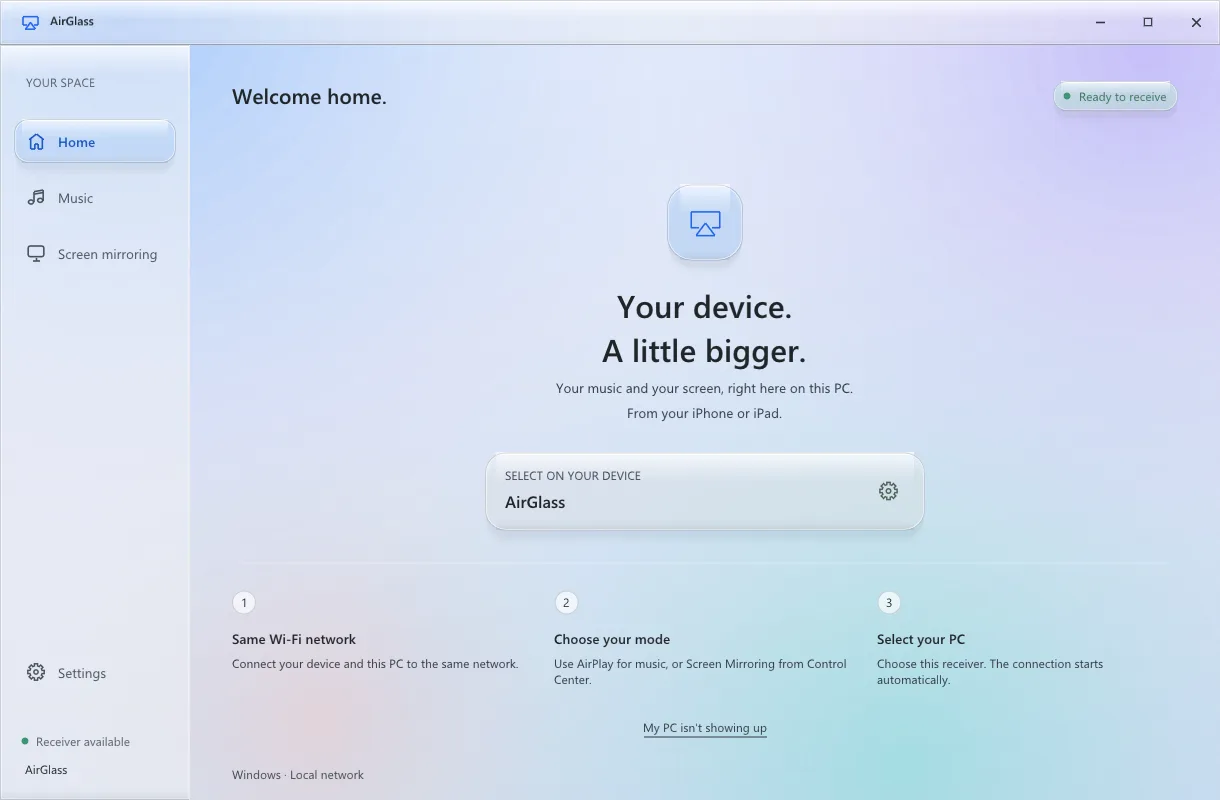
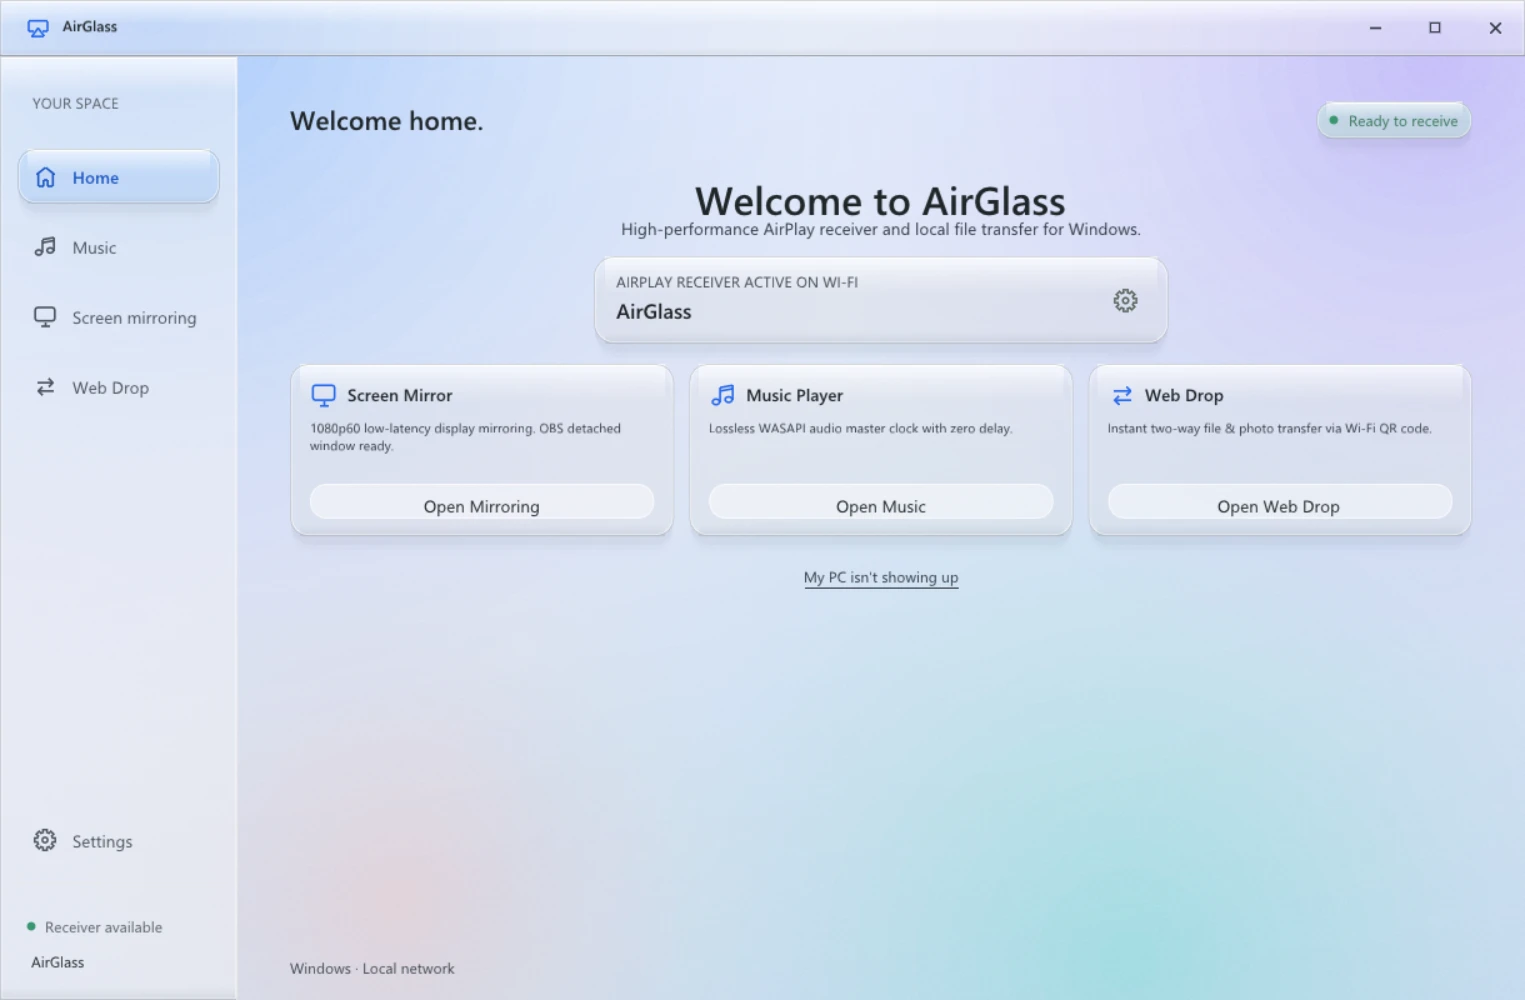
docs: update screenshots and feature showcase to v0.3.0 UI across README and site

diff --git a/site/index.html b/site/index.html
@@ -56,9 +56,9 @@
       <figure class="shot">
         <picture>
           <source media="(max-width: 760px)" srcset="/assets/dash-mobile.webp" width="1030" height="755">
-          <img src="/assets/dashboard.webp" width="1220" height="800" alt="The AirGlass window on Windows, showing the receiver card and the three setup steps." fetchpriority="high" decoding="async">
+          <img src="/assets/dashboard.webp" width="1220" height="800" alt="The AirGlass Home workspace showing receiver status and tool cards." fetchpriority="high" decoding="async">
         </picture>
-        <figcaption class="shot-cap">The receiver card, at first run. Pick the name on the iPhone and it starts.</figcaption>
+        <figcaption class="shot-cap">The AirGlass Home dashboard: receiver status on your Wi-Fi network and quick access to tools.</figcaption>
       </figure>
     </div>
   </section>
@@ -104,6 +104,10 @@
         <h2>Pick the preset before you mirror</h2>
         <p>AirGlass probes your GPU, CPU and Wi-Fi band, then shows what this machine can hold. You choose. Nothing is decided silently, and the choice stays locked for that session. Sizes are quoted as the short side of the portrait screen, so 1080p is roughly 886 by 1920 in practice.</p>
       </div>
+      <figure class="shot shot-margin">
+        <img src="/assets/preflight.webp" width="1213" height="793" alt="AirGlass pre-flight quality chooser modal showing hardware probe and stream profiles." loading="lazy" decoding="async">
+        <figcaption class="shot-cap">The pre-flight quality chooser: hardware probe results and profile verdicts before streaming starts.</figcaption>
+      </figure>
       <ul class="preset-grid">
         <li class="tile">
           <div class="tile-top">
@@ -132,7 +136,8 @@
   <section class="mirror" id="mirror">
     <div class="wrap mirror-grid">
       <figure class="shot shot-small">
-        <img src="/assets/mirroring.webp" width="1213" height="793" alt="The AirGlass interface while an iPhone home screen is mirrored, showing the connected device and session controls." loading="lazy" decoding="async">
+        <img src="/assets/mirroring.webp" width="1213" height="793" alt="The AirGlass Screen Mirroring standby view with OBS detached window controls." loading="lazy" decoding="async">
+        <figcaption class="shot-cap">Screen Mirroring Studio: one-click standby and OBS window detachment.</figcaption>
       </figure>
       <div class="mirror-copy">
         <h2>A window with nothing but the phone</h2>
@@ -153,7 +158,19 @@
         <h2>Two-way Web Drop & Lossless Audio</h2>
         <p>AirGlass is more than a mirror. Transfer files across iOS and Windows over private Wi-Fi and stream hi-fi sound straight to PC speakers.</p>
       </div>
-      <ul class="why-list">
+
+      <div class="feature-showcase-grid">
+        <figure class="shot">
+          <img src="/assets/music.webp" width="1213" height="793" alt="AirGlass Audio Player view showing WASAPI master clock telemetry and instructions." loading="lazy" decoding="async">
+          <figcaption class="shot-cap">AirGlass Audio Player: 44.1 kHz / 16-bit WASAPI lossless PCM stream with sub-20ms latency.</figcaption>
+        </figure>
+        <figure class="shot">
+          <img src="/assets/webdrop.webp" width="1213" height="793" alt="AirGlass Web Drop view showing QR code pairing, transfer controls, and custom destination." loading="lazy" decoding="async">
+          <figcaption class="shot-cap">Two-Way Web Drop: instant QR code connection in Safari, custom folder save, and PC-to-iPhone sending.</figcaption>
+        </figure>
+      </div>
+
+      <ul class="why-list" style="margin-top: 40px;">
         <li>
           <h3>Two-way local Web Drop</h3>
           <p>Scan a QR code from the desktop interface to open the upload portal in Safari. Send photos, 4K videos, and documents to PC, or send files from PC to iPhone with one click.</p>

diff --git a/site/styles.css b/site/styles.css
@@ -363,6 +363,20 @@ body::before {
   padding-block: clamp(36px, 4.8vw, 72px);
   border-top: 1px solid var(--line);
 }
+.shot-margin {
+  margin: 32px 0 36px;
+}
+.feature-showcase-grid {
+  display: grid;
+  grid-template-columns: repeat(2, minmax(0, 1fr));
+  gap: clamp(20px, 3vw, 36px);
+  margin-top: 32px;
+}
+@media (max-width: 800px) {
+  .feature-showcase-grid {
+    grid-template-columns: minmax(0, 1fr);
+  }
+}
 .mirror-grid {
   display: grid; grid-template-columns: minmax(0, 1.1fr) minmax(0, 0.9fr);
   gap: clamp(28px, 4vw, 56px); align-items: center;

diff --git a/README.md b/README.md
@@ -13,7 +13,7 @@ No Bonjour install. No account. No watermark. No silent downgrade.
 [![Status](https://img.shields.io/badge/status-v0.3.0%20%C2%B7%20stable-green?style=flat-square)](#status)
 [![Built with](https://img.shields.io/badge/C%2B%2B20-D3D11%20%C2%B7%20FFmpeg%20%C2%B7%20WASAPI-informational?style=flat-square)](#build)
 
-![AirGlass mirroring an iPhone home screen to Windows](docs/screenshots/mirroring.png)
+![AirGlass home dashboard and action cards](docs/screenshots/dashboard.png)
 
 </div>
 
@@ -33,26 +33,42 @@ Every free AirPlay receiver on Windows treats you like a trial user. AirGlass st
 
 ## Screenshots
 
-The interface is a liquid-glass surface: a soft aurora backdrop, translucent frosted panels with a lit top rim, and status as colour rather than boxes. Nothing is drawn in a heavy chrome frame — panels float over the backdrop instead of sitting in borders.
+The interface is a liquid-glass surface: a soft aurora backdrop, translucent frosted panels with a lit top rim, and dedicated workspaces across Home, Screen Mirroring, Music Player, and Web Drop.
 
+### Welcome Home & Action Cards
 
-### Choose quality before you mirror
+The Home view provides an instant overview of the receiver status on your Wi-Fi network, quick launch cards for every tool, and network troubleshooting.
 
-Nothing is decided behind your back. Before a session starts, AirGlass probes your GPU, CPU and Wi-Fi band, then shows a verdict per preset — with the reason next to it.
+<img src="docs/screenshots/dashboard.png" alt="AirGlass Home dashboard showing active receiver and quick action cards" width="900">
 
-<img src="docs/screenshots/preflight.png" alt="AirGlass pre-flight quality chooser with verdict badges" width="900">
+### Choose Quality Before You Mirror
 
-- `recommended` (green) — this machine and network will hold it.
-- `possible` (amber) — will work, with a caveat that is spelled out.
-- `risky` (red) — needs hardware decode or a clean 5 GHz link that this machine does not have.
+Before streaming starts, AirGlass probes your GPU, CPU, and Wi-Fi link speed, evaluating presets against your hardware.
 
-That line under the title (`D3D11VA; Wi-Fi 2.4 GHz @144 Mbps`) is real probe output, not a guess.
+<img src="docs/screenshots/preflight.png" alt="AirGlass pre-flight quality chooser modal over the home screen" width="900">
 
-### The dashboard
+- `1080p30` (Default) — Sharp text, solid 30 fps, reliable on integrated graphics.
+- `1080p60` — Smooth 60 fps motion for games and animations; requires hardware decode (D3D11VA) and 5 GHz Wi-Fi.
+- `720p60` — Fluid motion for older machines or 2.4 GHz Wi-Fi.
+- `Auto` — Automatically probes and locks the best profile for your setup.
 
-<img src="docs/screenshots/dashboard.png" alt="AirGlass dashboard: receiver name, connection status, three setup steps" width="900">
+### Screen Mirroring Studio
 
-The receiver name (`AirGlass`, or whatever you set in Settings) is exactly what you pick from Control Center. Three steps, one screen: same Wi-Fi → choose AirPlay or Screen Mirroring → select this PC. If the phone cannot see the PC, **My PC isn't showing up** runs the network diagnosis instead of opening a browser tab.
+Ready to receive AirPlay mirroring with OBS integration. Features a separate borderless window (`AirGlass Mirror`) that outputs pure video without any window borders or UI chrome.
+
+<img src="docs/screenshots/mirroring.png" alt="AirGlass Screen Mirroring standby view with OBS integration controls" width="900">
+
+### AirGlass Audio Player
+
+Dedicated lossless audio receiver powered by a WASAPI master clock at 44.1 kHz / 16-bit. Streams live sound with sub-20ms latency and supports ID3 metadata or direct raw PCM playback.
+
+<img src="docs/screenshots/music.png" alt="AirGlass Audio Player view with WASAPI engine telemetry and streaming instructions" width="900">
+
+### Two-Way Web Drop
+
+Instant local file transfer between PC and iOS over LAN without internet. Scan the QR code to open the Safari transfer client, send photos/videos/documents to PC, or send files from PC to iOS.
+
+<img src="docs/screenshots/webdrop.png" alt="AirGlass Web Drop view with QR code pairing, destination selector, and PC to iPhone file sharing" width="900">
 
 ## Website
 
